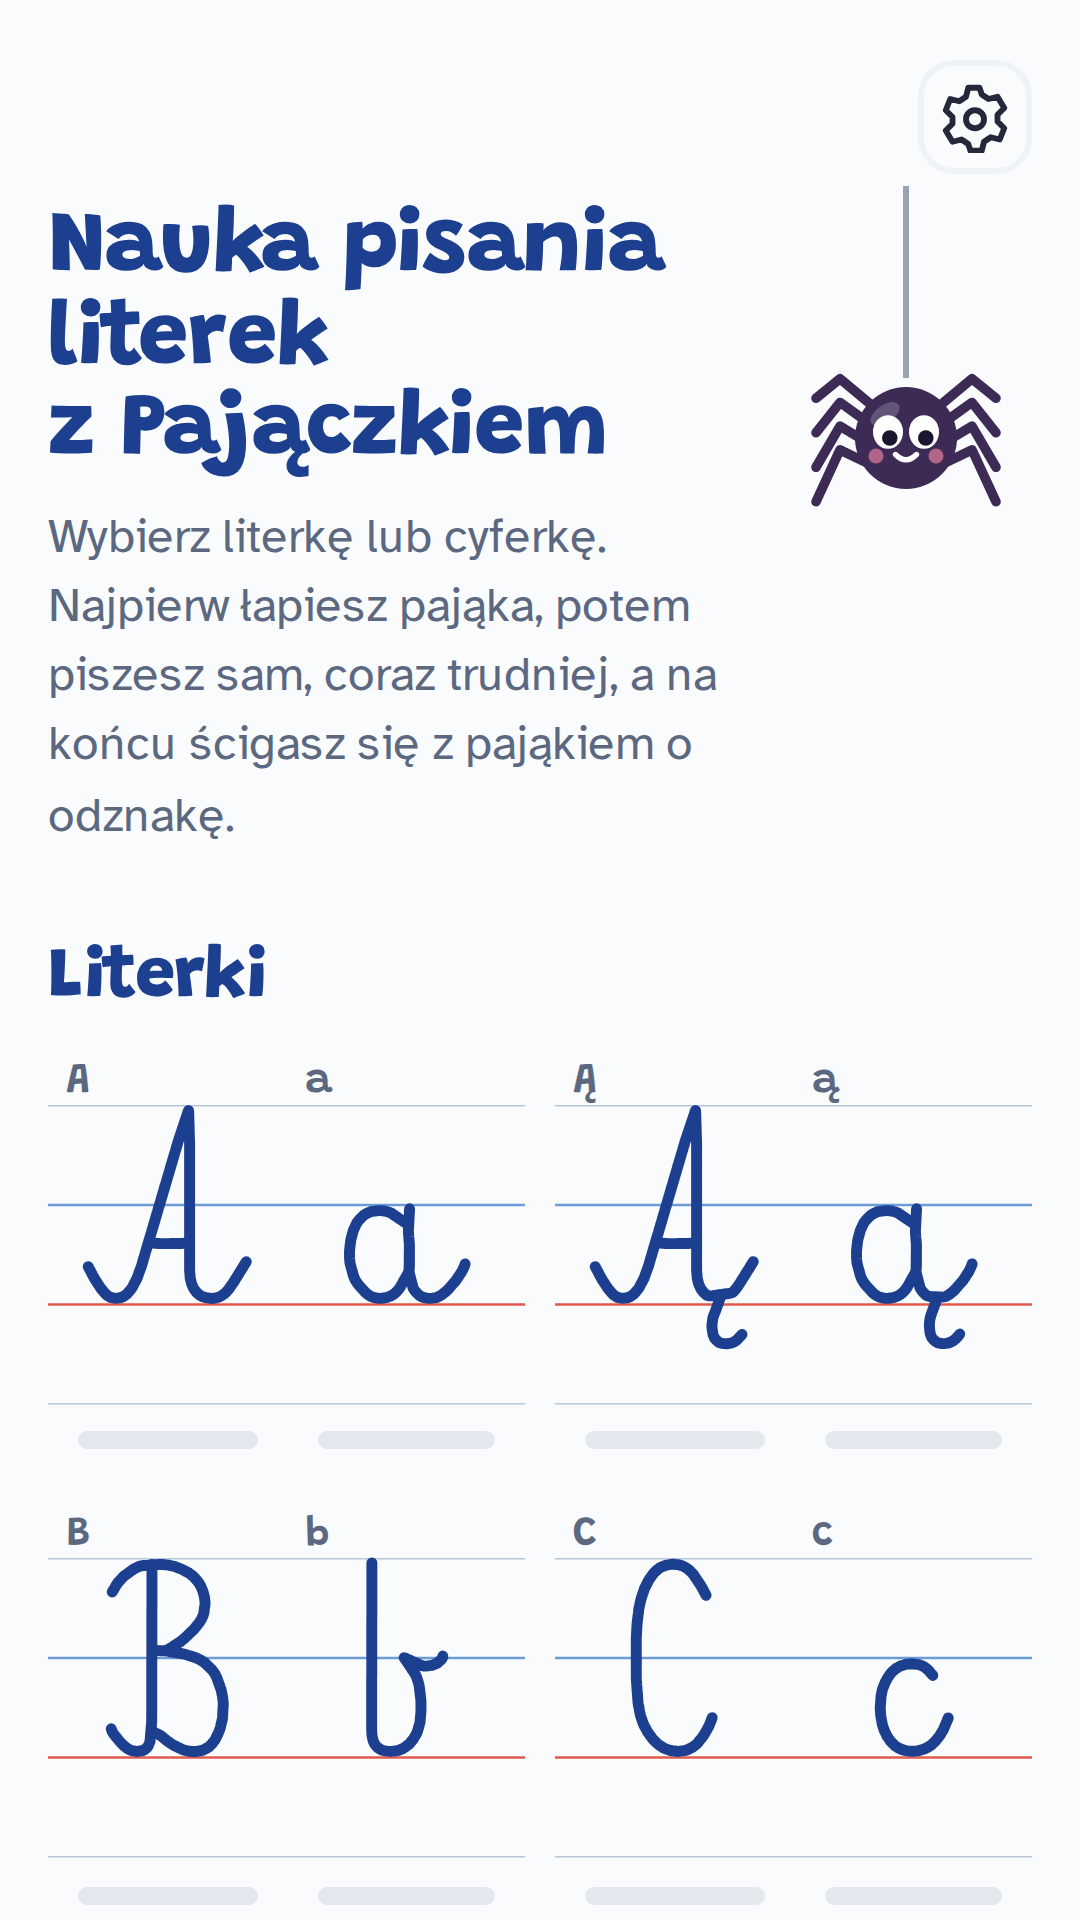
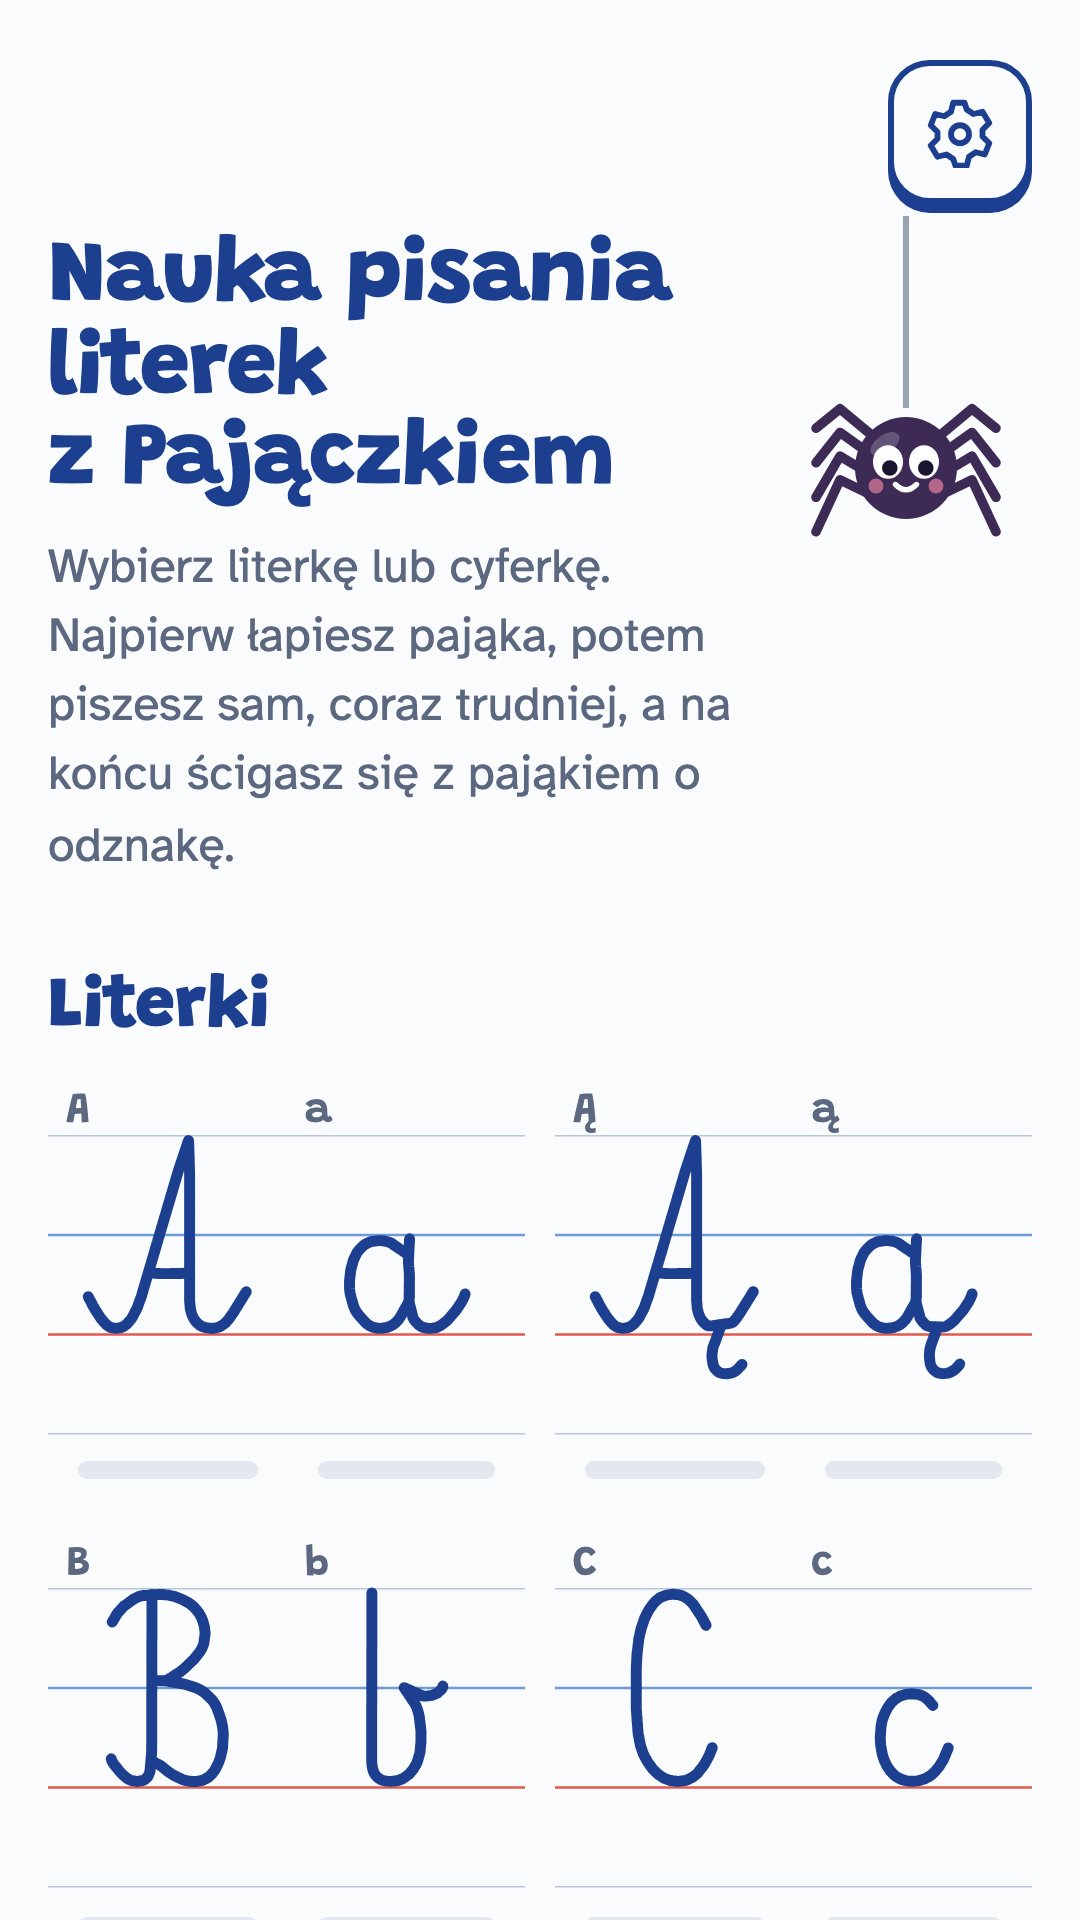
Ujednolić ustawienia, uprościć prywatność i poprawić pochodzenie wzorów

diff --git a/src/letters.js b/src/letters.js
@@ -1,4 +1,4 @@
-// Wygenerowane z fontu „Elementarz Dwa” (B. Nowak): linia środkowa glifów + polska kolejność i kierunek ruchów.
+// Niezależnie opracowane ścieżki wzorów liter oraz kolejność i kierunek ruchów.
 const LETTERS = {
   'a': [{ d: 'M 63.2 118.8 L 48.3 108.6 L 44.5 106.9 L 40.8 106 L 35.6 105.5 L 26.9 106.6 L 22.8 108.4 L 19.5 110.5 L 13.5 116.9 L 9.6 124.9 L 6.8 135.1 L 5.5 146.1 L 5.5 153.2 L 6.1 158.8 L 9.5 171.1 L 11.4 175.6 L 14.5 180.2 L 22.5 188.9 L 26.2 191.5 L 29.2 192.9 L 34.1 193.9 L 38.1 193.8 L 43.4 192.9 L 48.1 191 L 51.6 188.5 L 55.7 184.1 L 64 169.4 L 65.4 166.3 L 65.8 162.6 L 65.8 139.6 L 64.8 127.2 L 66 103.8 L 64.8 127.2 L 65.8 139.6 L 65.5 167.4 L 69.5 183.4 L 71 186 L 74.4 189.6 L 76.5 191.4 L 79.1 192.8 L 86 194.1 L 92.9 193.2 L 98.1 190.6 L 103.9 185.9 L 112.7 175.8 L 118.5 167.1 L 121.4 161.1 L 121.8 159.2' }],
   'ą': [{ d: 'M 63.2 118.8 L 48.3 108.6 L 44.5 106.9 L 40.8 106 L 35.6 105.5 L 26.9 106.6 L 22.8 108.4 L 19.5 110.5 L 13.5 116.9 L 9.6 124.9 L 6.8 135.1 L 5.5 146.1 L 5.5 153.2 L 6.1 158.8 L 9.5 171.1 L 11.4 175.6 L 14.5 180.2 L 22.5 188.9 L 26.2 191.5 L 29.2 192.9 L 34.1 193.9 L 38.1 193.8 L 43.4 192.9 L 48.1 191 L 51.6 188.5 L 55.7 184.1 L 64 169.4 L 65.4 166.3 L 65.8 162.6 L 65.8 139.6 L 64.8 127.2 L 66 103.8 L 64.8 127.2 L 65.8 139.6 L 65.5 167.4 L 69.5 183.4 L 71 186 L 74.4 189.6 L 76.4 191.3 L 78.2 191.9 L 91.5 192.6 L 94.9 192.3 L 98.1 190.6 L 103.9 185.9 L 112.7 175.8 L 118.5 167.1 L 121.4 161.1 L 121.8 159.2' }, { d: 'M 85.5 197 L 80.1 211.8 L 79.1 216.9 L 78.8 221.9 L 79.4 227.8 L 80.2 231.1 L 82 234.4 L 84.6 237.1 L 87.2 238.6 L 92 239.5 L 96.5 239.1 L 99.9 238.2 L 102.6 236.8 L 106.5 233.5 L 109.5 229.8', name: 'ogonek' }],
@@ -64,7 +64,7 @@ const LETTERS = {
   'Z': [{ d: 'M 6.5 18 L 8.4 15 L 12.4 11 L 14.6 9.2 L 17.4 7.6 L 19.8 6.8 L 22.8 6.2 L 28.6 5.8 L 37.8 6.5 L 45.8 9 L 60.9 16.5 L 64.4 17.5 L 69.9 18.2 L 77.5 17.4 L 81.8 16.4 L 93.6 12.2 L 106 6.8 L 99.7 18.7 L 97.4 24.6 L 19.5 171.3 L 5.8 193.5 L 27 179.4 L 28.7 178.8 L 37.6 177.7 L 43.2 178.3 L 49.5 180.5 L 64.5 189.1 L 72.4 192.4 L 77.8 193.6 L 82.6 194 L 90.9 192.9 L 97.2 189.9 L 103.1 184.5 L 110.9 173.5 L 116.8 161.8' }],
   'Ź': [{ d: 'M 6.2 18 L 8.1 15 L 11.9 11 L 14 9.2 L 16.4 7.6 L 19.2 6.8 L 22.2 6.2 L 28.1 5.8 L 37.5 6.5 L 45.9 9.2 L 60.6 16.5 L 64.1 17.5 L 69.4 18.2 L 77.2 17.4 L 82.2 16.1 L 92.3 12.5 L 105.5 6.8 L 99.4 18.5 L 97.2 24.4 L 19.3 171 L 5.5 193.5 L 26.5 179.4 L 28.2 178.8 L 37.4 177.7 L 42.8 178.3 L 48.5 180.3 L 65.2 189.7 L 73.6 192.8 L 82.1 194 L 90.6 192.9 L 93.8 191.7 L 97.4 189.5 L 103.1 184 L 110 174.5 L 116.2 162' }, { d: 'M 88.5 -26.8 L 64.2 -6.2', name: 'kreska' }],
   'Ż': [{ d: 'M 6.2 18 L 8.1 15 L 11.9 11 L 14 9.2 L 16.4 7.6 L 19.2 6.8 L 22.2 6.2 L 28.1 5.8 L 37.5 6.5 L 45.9 9.2 L 60.6 16.5 L 64.1 17.5 L 69.4 18.2 L 77.2 17.4 L 82.2 16.1 L 92.3 12.5 L 105.5 6.8 L 99.4 18.5 L 97.2 24.4 L 19.3 171 L 5.5 193.5 L 26.5 179.4 L 28.2 178.8 L 37.4 177.7 L 42.8 178.3 L 48.5 180.3 L 65.2 189.7 L 73.6 192.8 L 82.1 194 L 90.6 192.9 L 93.8 191.7 L 97.4 189.5 L 103.1 184 L 110 174.5 L 112.9 169.2 L 116 162.2' }, { dot: [61, -18], name: 'kropka' }],
-  // Cyferki 0–9: z tego samego fontu „Elementarz Dwa” (linia środkowa glifów); kolejność i kierunek ruchów ustawione jak w piśmie szkolnym.
+  // Ścieżki cyfr 0–9; kolejność i kierunek ruchów jak w piśmie szkolnym.
   '0': [{ d: 'M 50.4 5.6 L 46.7 5.7 L 41.7 7.0 L 36.0 9.9 L 32.6 12.6 L 23.7 24.1 L 18.9 33.4 L 13.0 50.0 L 8.7 67.8 L 6.1 88.4 L 5.5 99.4 L 6.4 113.8 L 8.7 131.9 L 13.0 150.0 L 18.9 166.2 L 23.2 174.7 L 27.8 181.6 L 33.8 188.1 L 36.7 190.2 L 41.7 192.7 L 50.1 194.4 L 57.9 193.0 L 62.3 191.0 L 67.0 187.8 L 70.3 184.4 L 75.5 177.2 L 81.4 166.6 L 87.7 149.4 L 90.3 138.8 L 93.8 116.9 L 94.7 103.1 L 94.4 89.4 L 90.9 63.8 L 87.4 49.4 L 81.6 33.4 L 75.1 21.9 L 70.0 15.0 L 67.3 12.2 L 62.6 8.9 L 57.9 6.7 L 53.8 5.7 L 50.4 5.6' }],
   '1': [{ d: 'M 5.5 44.4 L 44.5 6.0 L 44.9 192.5' }],
   '2': [{ d: 'M 18.3 29.1 L 19.1 26.6 L 21.0 23.8 L 26.8 17.2 L 31.5 13.4 L 39.3 9.2 L 46.8 6.7 L 55.2 5.5 L 63.0 5.7 L 71.2 6.9 L 78.0 9.3 L 83.3 12.5 L 89.0 17.5 L 92.7 22.5 L 96.0 28.8 L 97.9 35.6 L 98.6 41.2 L 98.6 50.0 L 97.8 55.9 L 95.1 65.0 L 90.6 74.4 L 86.6 80.9 L 5.5 193.5 L 25.2 187.4 L 35.2 185.0 L 45.8 185.4 L 54.0 187.4 L 67.1 192.5 L 72.1 193.7 L 78.0 194.2 L 84.6 193.0 L 91.5 189.2 L 96.7 183.8 L 99.7 179.1 L 103.7 175.6' }],

diff --git a/index.html b/index.html
@@ -3,7 +3,7 @@
 
 
 <section id="menu" aria-label="Wybór literki lub cyferki">
-  <div class="menu-top"><button class="iconbtn" id="settingsBtn" type="button" aria-label="Ustawienia" aria-haspopup="dialog"></button></div>
+  <div class="menu-top"><button class="btn settings-trigger" id="settingsBtn" type="button" aria-label="Ustawienia" aria-haspopup="dialog"></button></div>
   <div class="hero">
     <div>
       <h1>Nauka pisania literek z Pajączkiem</h1>
@@ -26,7 +26,7 @@
     <button class="btn" id="fullVersionBtn" type="button">Pełna wersja i przywracanie zakupu</button>
     <button class="btn" id="soundMenuBtn" type="button" aria-pressed="false"></button>
     <button class="btn" id="penMenuBtn" type="button" aria-pressed="false"></button>
-    <button class="btn" id="parentInfoBtn" type="button" aria-haspopup="dialog"><svg class="ic" viewBox="0 0 32 32" fill="none" stroke="currentColor" stroke-width="2" aria-hidden="true"><circle cx="16" cy="16" r="12"/><path d="M16 14v9"/><circle cx="16" cy="9" r="1" fill="currentColor"/></svg>Informacje dla rodzica</button>
+    <button class="btn" id="parentInfoBtn" type="button" aria-haspopup="dialog">Informacje dla rodzica</button>
     <button class="btn" id="privacyBtn" type="button">Prywatność</button>
   </div>
 </dialog>
@@ -39,7 +39,7 @@
     <section><h3>Możecie zrobić przerwę</h3><p>Postęp zapisuje się automatycznie w tej przeglądarce. Możecie wrócić do menu i kontynuować innym razem na tym samym urządzeniu.</p></section>
     <section><h3>Palcem czy rysikiem?</h3><p>Można pisać palcem lub rysikiem. W ustawieniach opcja „Tylko rysik” pomaga uniknąć przypadkowych kresek od dłoni. Tam też włączycie lub wyłączycie dźwięk.</p></section>
     <section><h3>Jak wspierać dziecko?</h3><p>Dajcie sobie czas na próby. Chwalcie starania i róbcie przerwy, gdy pojawi się zmęczenie. Kilka spokojnych ćwiczeń wystarczy — nie trzeba zdobyć odznaki za jednym razem.</p></section>
-    <section><h3>O wzorach liter i cyfr</h3><p>Kształty pochodzą ze szkolnej czcionki „Elementarz Dwa”. Małe litery zwykle piszemy jednym ruchem; kropki, kreski, ogonki i niektóre elementy dodajemy osobno.</p><p>W szkole dziecka sposób pisania niektórych znaków może być nieco inny. Warto porównać wzór z tym, który pokazuje nauczyciel.</p></section>
+    <section><h3>O wzorach liter i cyfr</h3><p>Małe litery zwykle piszemy jednym ruchem; kropki, kreski, ogonki i niektóre elementy dodajemy osobno.</p><p>W szkole dziecka sposób pisania niektórych znaków może być nieco inny. Warto porównać wzór z tym, który pokazuje nauczyciel.</p></section>
   </div>
 </dialog>
 

diff --git a/src/game.js b/src/game.js
@@ -77,6 +77,10 @@ const SP_BODY = '<circle cx="16" cy="17" r="6.5" fill="currentColor" stroke="non
 const smallA = (k) => `<rect x="3" y="3" width="26" height="26" rx="6" stroke-dasharray="3 3.5" stroke-width="2"/><g transform="translate(16 16.5) scale(${k})"><circle cx="-2.5" cy="1" r="6.5" vector-effect="non-scaling-stroke"/><path d="M4 -5.5V7.5" vector-effect="non-scaling-stroke"/></g>`;
 const flag = (n) => '<path d="M10 29V3.5"/><path d="M10 5h16l-3.5 6 3.5 6H10"/><path d="M10 5h5v6h-5zM20 5h5.2l-2.7 6H20zM15 11h5v6h-5z" fill="currentColor" stroke="none"/>' + ['M2 9h5', 'M1 14h6', 'M2 19h5'].slice(0, n).map((d) => `<path d="${d}"/>`).join('');
 const ICONS = {
+  unlock: '<rect x="7" y="14" width="18" height="14" rx="3"/><path d="M11 14V9a5 5 0 0 1 9.7-1.7"/><circle cx="16" cy="21" r="1"/>',
+  privacy: '<path d="M16 3 27 7v8c0 7-5 11-11 14C10 26 5 22 5 15V7z"/><path d="m11 16 3.5 3.5L21 13"/>',
+  info: '<circle cx="16" cy="16" r="12"/><path d="M16 14v9"/><circle cx="16" cy="9" r="1" fill="currentColor" stroke="none"/>',
+  close: '<path d="m9 9 14 14M23 9 9 23"/>',
   lock: '<rect x="7" y="14" width="18" height="14" rx="3"/><path d="M11 14V9a5 5 0 0 1 10 0v5"/><circle cx="16" cy="21" r="1"/>',
   settings: '<path d="m13 3-1 4-3 2-4-1-2 5 3 3v3l-3 3 3 5 4-1 3 2 1 3h5l1-4 3-2 4 1 2-5-3-3v-3l3-3-3-5-4 1-3-2-1-3z"/><circle cx="16" cy="17" r="4"/>',
   home: '<path d="M4 16 16 5l12 11"/><path d="M8 13.5V27h6v-7h4v7h6V13.5"/>',
@@ -1299,6 +1303,10 @@ $('hifive').addEventListener('click', () => {
 /* ---------- przyciski ---------- */
 function toMenu() { G = null; cancelAnimationFrame(raf); gameEl.hidden = true; resultEl.hidden = true; rewardEl.hidden = true; menuEl.hidden = false; renderMenu(); }
 $('settingsBtn').innerHTML = icon('settings');
+$('closeSettingsBtn').innerHTML = icon('close');
+for (const [id, symbol] of [['fullVersionBtn', 'unlock'], ['parentInfoBtn', 'info'], ['privacyBtn', 'privacy']]) {
+  $(id).insertAdjacentHTML('afterbegin', icon(symbol));
+}
 $('settingsBtn').addEventListener('click', () => $('settingsDialog').showModal());
 $('closeSettingsBtn').addEventListener('click', () => $('settingsDialog').close());
 $('parentInfoBtn').addEventListener('click', () => $('parentInfoDialog').showModal());

diff --git a/tests/ui/app.spec.js b/tests/ui/app.spec.js
@@ -15,7 +15,7 @@ test('five free pairs, locks, friendly paywall, no fake web payment', async ({ p
   await expect(page.locator('#soundBtn')).toHaveCount(0);
   expect(errors).toEqual([]);
 });
-test('settings, parent guide, parent gate and focus restoration', async ({ page }) => {
+test('settings, parent guide, direct privacy access and focus restoration', async ({ page }) => {
   await page.goto('/');
   await page.getByRole('button', { name: 'Ustawienia', exact: true }).click();
   await page.getByRole('button', { name: 'Informacje dla rodzica', exact: true }).click();
@@ -23,13 +23,14 @@ test('settings, parent guide, parent gate and focus restoration', async ({ page 
   await page.keyboard.press('Escape');
   await expect(page.locator('#parentInfoBtn')).toBeFocused();
   await page.getByRole('button', { name: 'Prywatność', exact: true }).click();
-  await page.locator('#parentAnswer').fill('0');
-  await page.getByRole('button', { name: 'Dalej', exact: true }).click();
-  await expect(page.locator('#parentError')).toContainText('Spróbuj ponownie');
-  const numbers = (await page.locator('#parentQuestion').textContent()).match(/\d+/g).map(Number);
-  await page.locator('#parentAnswer').fill(String(numbers[0] * numbers[1]));
-  await page.getByRole('button', { name: 'Dalej', exact: true }).click();
   await expect(page.locator('#privacyDialog')).toBeVisible();
+  await expect(page.locator('#parentGateDialog')).toBeHidden();
+  await page.getByRole('button', { name: 'Zamknij prywatność', exact: true }).click();
+  await expect(page.locator('#privacyBtn')).toBeFocused();
+  await page.getByRole('button', { name: 'Prywatność', exact: true }).click();
+  await page.keyboard.press('Escape');
+  await expect(page.locator('#privacyDialog')).toBeHidden();
+  await expect(page.locator('#privacyBtn')).toBeFocused();
 });
 test('small-screen layout and offline game', async ({ page, context }) => {
   await page.setViewportSize({ width: 320, height: 568 });

diff --git a/src/styles.css b/src/styles.css
@@ -60,6 +60,8 @@ button:focus-visible { outline: 3px solid var(--focus); outline-offset: 2px; }
 
 /* ---------- USTAWIENIA ---------- */
 .menu-top { display: flex; justify-content: flex-end; margin-bottom: 4px; }
+.settings-trigger { width: 48px; height: 48px; padding: 0; justify-content: center; color: var(--ink); }
+.settings-trigger svg { width: 24px; height: 24px; }
 #page { margin-top: 20px; }
 .settings-dialog { box-sizing: border-box; width: min(540px, calc(100% - 32px)); max-height: calc(100dvh - 32px); overflow-y: auto; border: 2px solid var(--ink); border-radius: 22px; padding: 24px; background: var(--paper); color: var(--text); box-shadow: 0 16px 60px #1d3f8f33; }
 .settings-dialog::backdrop { background: #17274780; }
@@ -67,7 +69,8 @@ button:focus-visible { outline: 3px solid var(--focus); outline-offset: 2px; }
 .dialog-heading h2 { margin: 0; font-family: var(--display); font-size: 24px; color: var(--ink); }
 .dialog-heading .iconbtn { font-size: 30px; }
 .settings-actions { display: grid; gap: 16px; margin-top: 24px; padding-bottom: 4px; }
-.settings-actions .btn { text-align: left; min-height: 48px; }
+.settings-actions .btn { text-align: left; min-height: 48px; gap: 12px; line-height: 1.3; }
+.settings-actions .btn svg { flex: 0 0 22px; }
 .settings-dialog .foot { margin: 20px 0 0; font-size: 16px; }
 #parentInfoDialog { width: min(620px, calc(100% - 32px)); }
 .parent-guide { line-height: 1.65; }

diff --git a/src/main.ts b/src/main.ts
@@ -113,7 +113,7 @@ restoreBtn.addEventListener('click', () => askParent(async () => {
   finally { setBusy(false); }
 }));
 $('fullVersionBtn').addEventListener('click', () => void openPaywall());
-$('privacyBtn').addEventListener('click', () => askParent(async () => { $('privacyDialog').removeAttribute('hidden'); $<HTMLDialogElement>('privacyDialog').showModal(); }));
+$('privacyBtn').addEventListener('click', () => $<HTMLDialogElement>('privacyDialog').showModal());
 $('privacyClose').addEventListener('click', () => $<HTMLDialogElement>('privacyDialog').close());
 access.addEventListener('change', () => { if (access.full && paywall.open) success(); });
 const purchaseReady = initPurchases().catch(() => { /* Free letters always remain usable. */ });

diff --git a/docs/RELEASE-KROK-PO-KROKU.md b/docs/RELEASE-KROK-PO-KROKU.md
@@ -18,7 +18,7 @@ Efekt: oba konta pozwalają tworzyć i monetyzować aplikację.
 
 Projekt ma wspólny identyfikator `com.maciejsawicki.pajaczek`, nazwę sklepową **Pajączek: nauka literek** i nazwę pod ikoną **Pajączek**. Nie zmieniaj identyfikatora po pierwszym wysłaniu paczki. Jeśli jest zajęty, zmień go konsekwentnie przed pierwszą wysyłką w projektach Android/iOS, capacitor.config.ts i release-config.json.
 
-Wzory liter w dostarczonej grze wskazują font „Elementarz Dwa”. Potrzebne jest potwierdzenie uprawnień do użycia tych wzorów w sprzedawanej aplikacji lub zastąpienie ich własnymi. Zobacz THIRD-PARTY-NOTICES.md. Po potwierdzeniu ustaw `contentRightsConfirmed: true` w release-config.json. Nie zaznaczaj tej opcji tylko po to, żeby przejść kontrolę.
+Wzory liter i cyfr są niezależnie opracowanymi ścieżkami. Ich pochodzenie zostało potwierdzone; `contentRightsConfirmed` w release-config.json jest już ustawione na `true`. Zestawienie materiałów i licencji używanych zależności znajduje się w THIRD-PARTY-NOTICES.md.
 
 W `release-config.json` wpisz publiczny adres pomocy w `supportEmail`. Strony pomocy i prywatności aktualizują się automatycznie podczas builda. Dane kontaktowe recenzenta (telefon itp.) zapiszesz oddzielnie w sekrecie.
 

diff --git a/THIRD-PARTY-NOTICES.md b/THIRD-PARTY-NOTICES.md
@@ -2,6 +2,6 @@
 
 - Grandstander: lokalne pliki z @fontsource/grandstander, SIL Open Font License; pełna licencja w licenses/Grandstander-OFL.txt.
 - Atkinson Hyperlegible: lokalne pliki z @fontsource/atkinson-hyperlegible, SIL Open Font License; pełna licencja w licenses/Atkinson-Hyperlegible-OFL.txt.
-- Wzory znaków w src/letters.js pochodzą z dostarczonej przez autora aplikacji. Komentarz źródłowy wskazuje „Elementarz Dwa” (B. Nowak). Nie znaleziono dokumentu potwierdzającego uprawnienia do komercyjnego rozpowszechniania tych danych. Przed wydaniem sklepowym autor musi potwierdzić licencję albo zastąpić wzory własnymi. Flaga contentRightsConfirmed domyślnie blokuje wydanie produkcyjne.
+- Wzory liter i cyfr: niezależnie opracowane ścieżki z dostarczonej aplikacji, zapisane w src/letters.js.
 - Ikona w assets/branding/icon.svg rozwija istniejący w aplikacji wizerunek Pajączka. Wektor i wygenerowane rozmiary są w repo.
 - Biblioteki i ich dokładne wersje: package-lock.json; licencje bibliotek dostarczane w ich pakietach. Nie dodano licencji open source do autorskiego kodu bez decyzji właściciela.
